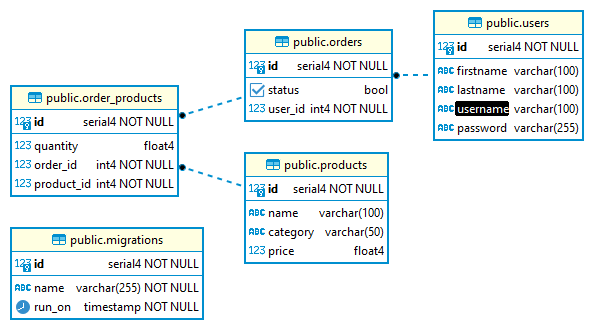
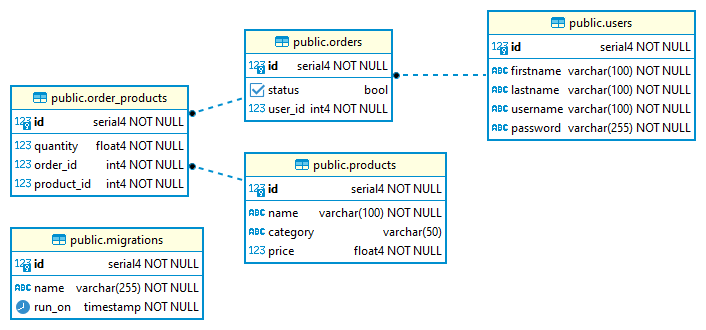
docs: update DB Schema with NOT NULL Constraint

Changed region(s): [[0.0, 0.0303, 1.0, 0.9697]]

diff --git a/REQUIREMENTS.md b/REQUIREMENTS.md
@@ -130,27 +130,28 @@ These are the notes from a meeting with the frontend developer that describe wha
 
 #### Product
 
-- id SERIAL PK
-- name VARCHAR(100)
-- price REAL
+- id SERIAL PK NOT NULL
+- name VARCHAR(100) NOT NULL
+- price REAL NOT NULL
 - category VARCHAR(50)
 
 #### User
 
-- id SERIAL PK
-- firstName VARCHAR(100)
-- lastName VARCHAR(100)
-- password VARCHAR(255)
+- id SERIAL PK NOT NULL
+- username VARCHAR(100) UNIQUE NOT NULL
+- firstName VARCHAR(100) NOT NULL
+- lastName VARCHAR(100) NOT NULL
+- password VARCHAR(255) NOT NULL
 
 #### Orders
 
-- id SERIAL PK
-- user_id INT FK
+- id SERIAL PK NOT NULL
+- user_id INT FK NOT NULL
 - status BOOLEAN (active or complete)
 
 #### Order_products
 
-- id SERIAL PK,
-- quantity REAL,
-- order_id INT FK,
-- product_id INT FK,
+- id SERIAL PK NOT NULL
+- quantity REAL NOT NULL
+- order_id INT FK NOT NULL
+- product_id INT FK NOT NULL
